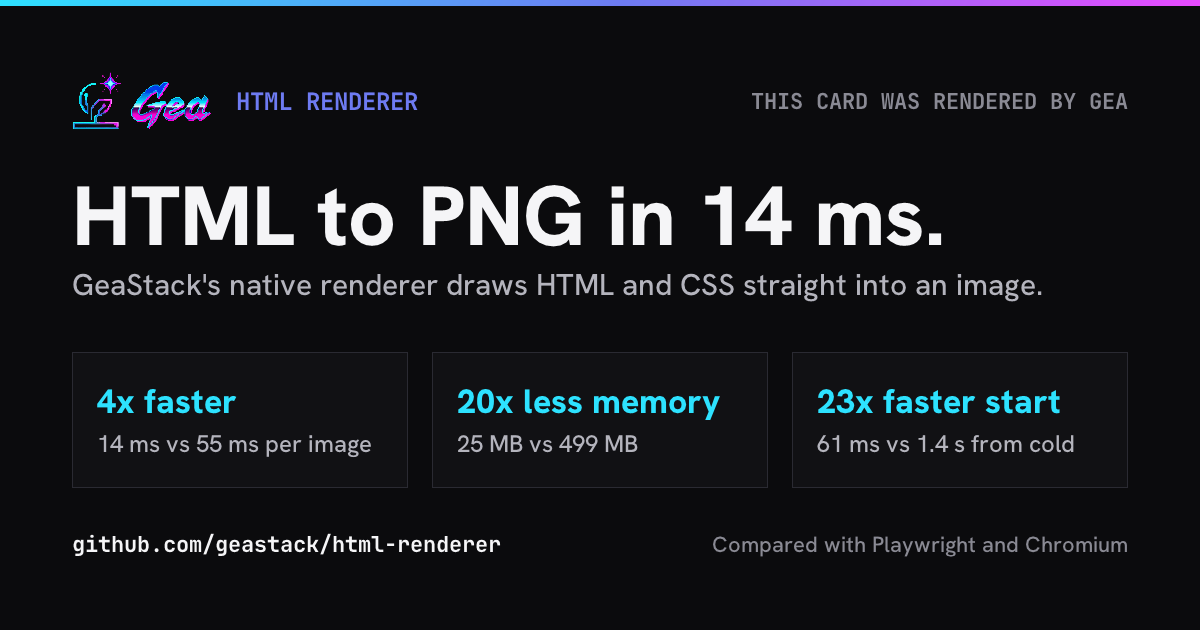
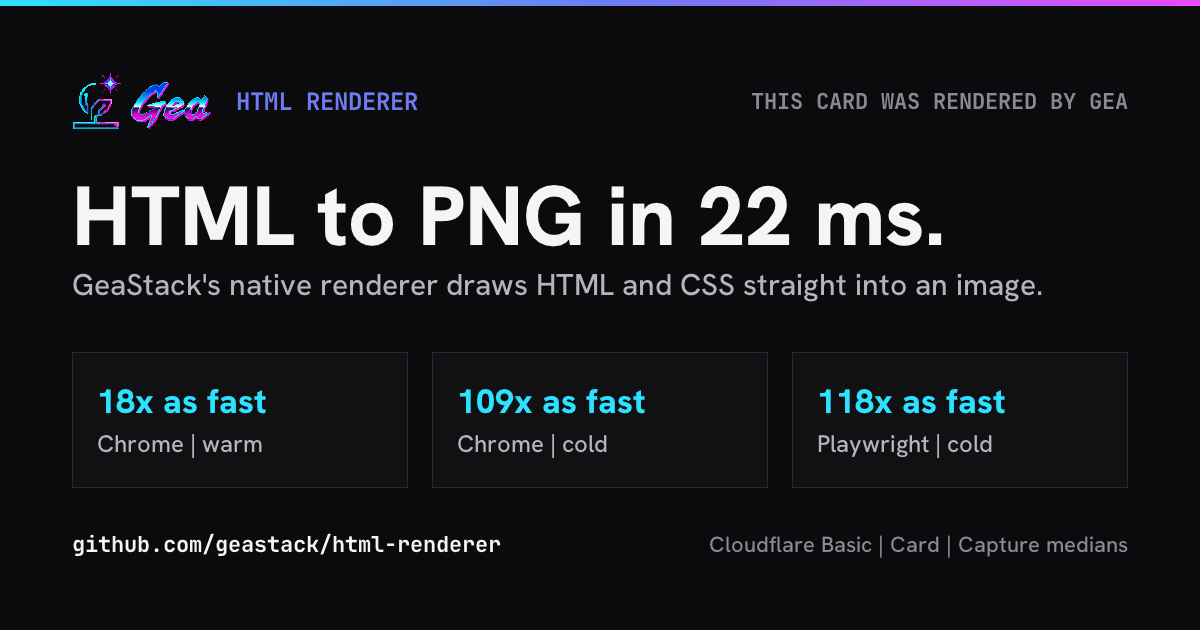
Add Cloudflare deployment button and comparable memory metrics
Let Workers Builds deploy the renderer from a source checkout, refresh the README card from the published Basic benchmark, and sample total cgroup memory alongside anonymous plus shared memory.

diff --git a/fixtures/promo/readme.html b/fixtures/promo/readme.html
@@ -1,0 +1,29 @@
+<!doctype html>
+<html>
+<head>
+  <title>Gea HTML Renderer</title>
+  <link rel="stylesheet" href="promo.css">
+</head>
+<body>
+  <div class="bar"></div>
+  <main class="card"
+    ><div class="top"
+      ><img class="logo" src="../shared/images/gea-logo.png" alt="Gea"
+      ><p class="eyebrow">HTML RENDERER</p
+      ><p class="proof">THIS CARD WAS RENDERED BY GEA</p
+    ></div
+    ><h1>HTML to PNG in 22 ms.</h1
+    ><p class="sub">GeaStack's native renderer draws HTML and CSS straight into an image.</p
+    ><div class="stats"
+      ><div class="stat"><p class="value">18x as fast</p><p class="label">Chrome | warm</p></div
+      ><div class="stat"><p class="value">109x as fast</p><p class="label">Chrome | cold</p></div
+      ><div class="stat"><p class="value">118x as fast</p><p class="label">Playwright | cold</p></div
+    ></div
+    ><div class="grow"></div
+    ><div class="footer"
+      ><p class="repo">github.com/geastack/html-renderer</p
+      ><p class="note">Cloudflare Basic | Card | Capture medians</p
+    ></div
+  ></main>
+</body>
+</html>

diff --git a/deploy/cloudflare/src/native/server.ts b/deploy/cloudflare/src/native/server.ts
@@ -10,6 +10,7 @@ declare function startCaptureMetrics(): void
 declare function finishCaptureMetrics(): void
 declare function httpPrerenderMode(): boolean
 declare function captureMetrics(): string
+declare function captureTotalMemory(): string
 declare function openBundle(bytes: Uint8Array): string
 declare function beginFileBundle(): void
 declare function writeBundleFile(name: string, bytes: Uint8Array): void
@@ -149,6 +150,7 @@ function serve(): void {
     }
 
     response.setHeader('x-gea-capture', captureMetrics())
+    response.setHeader('x-gea-memory-current-peak', captureTotalMemory())
     response.setHeader('content-type', 'image/png')
     response.setHeader('content-length', String(png.length))
     response.setHeader('x-bench-container-ms', String(performance.now() - started))

diff --git a/deploy/cloudflare/src/native/metrics.h b/deploy/cloudflare/src/native/metrics.h
@@ -34,20 +34,34 @@ static std::int64_t anonymousMemory()
 }
 
 static std::string lastCaptureMetrics;
+static std::int64_t lastTotalMemoryPeak = -1;
 static bool firstCapture = true;
+
+static std::int64_t totalMemory()
+{
+	std::ifstream stream("/sys/fs/cgroup/memory.current");
+	std::int64_t value;
+	return stream >> value ? value : -1;
+}
 
 class CaptureMetrics {
 	const std::chrono::steady_clock::time_point start = std::chrono::steady_clock::now();
 	const std::int64_t cpuBefore = cgroupCounter("cpu.stat", "usage_usec");
 	const std::int64_t baseline = anonymousMemory();
 	std::int64_t peak = baseline;
+	std::int64_t totalPeak = totalMemory();
+	void sample()
+	{
+		peak = std::max(peak, anonymousMemory());
+		totalPeak = std::max(totalPeak, totalMemory());
+	}
 	std::mutex timerMutex;
 	std::condition_variable_any timer;
 	std::jthread sampler{[this](std::stop_token stop) {
 		std::unique_lock lock(timerMutex);
 		while (!stop.stop_requested()) {
 			timer.wait_for(lock, stop, std::chrono::milliseconds(5), [] { return false; });
-			if (!stop.stop_requested()) peak = std::max(peak, anonymousMemory());
+			if (!stop.stop_requested()) sample();
 		}
 	}};
 
@@ -58,7 +72,8 @@ public:
 		const auto cpuAfter = cgroupCounter("cpu.stat", "usage_usec");
 		sampler.request_stop();
 		sampler.join();
-		peak = std::max(peak, anonymousMemory());
+		sample();
+		lastTotalMemoryPeak = totalPeak;
 		const auto wall = std::chrono::duration_cast<std::chrono::microseconds>(end - start).count();
 		lastCaptureMetrics = std::to_string(wall) + "," +
 			std::to_string(cpuBefore < 0 ? -1 : cpuAfter - cpuBefore) + "," +
@@ -84,4 +99,9 @@ static void finishCaptureMetrics()
 static std::string captureMetrics()
 {
 	return lastCaptureMetrics;
+}
+
+static std::string captureTotalMemory()
+{
+	return std::to_string(lastTotalMemoryPeak);
 }

diff --git a/README.md b/README.md
@@ -3,14 +3,17 @@
 Render local HTML and CSS to PNG or MP4 with GeaStack's native renderer.
 The Node client keeps a native worker open for repeated PNG captures.
 
-![HTML to PNG in 14 ms](fixtures/promo/promo.png)
+![Gea captured Card in 22 ms on Cloudflare Basic](fixtures/promo/promo.png)
+
+See the [launch benchmark](https://geastack.com/blog-html-renderer) for the
+Cloudflare Basic capture measurements shown here.
 
 This card was generated by html-renderer from
-[`fixtures/promo/promo.html`](fixtures/promo/promo.html) and
+[`fixtures/promo/readme.html`](fixtures/promo/readme.html) and
 [`promo.css`](fixtures/promo/promo.css):
 
 ```sh
-npm run render -- fixtures/promo/promo.html --width 1200 --height 630 --out fixtures/promo/promo.png
+npm run render -- fixtures/promo/readme.html --width 1200 --height 630 --out fixtures/promo/promo.png
 ```
 
 ## Install and render
@@ -146,6 +149,12 @@ This gallery is also generated by html-renderer, with
 [`fixtures/shared/gallery.mjs`](fixtures/shared/gallery.mjs).
 
 ## Cloudflare deployment
+
+[![Deploy to Cloudflare](https://deploy.workers.cloudflare.com/button)](https://deploy.workers.cloudflare.com/?url=https://github.com/geastack/html-renderer)
+
+The button imports the repository and deploys it through Workers Builds. Enable
+Containers on your Cloudflare account and enter a strong, unique value for `RENDER_TOKEN`
+when prompted. You’ll use it as the bearer token for render requests.
 
 The [deployment guide](deploy/cloudflare/README.md) explains the
 `npm run cloudflare:deploy` build and deploy workflow for macOS and Linux,

diff --git a/deploy/cloudflare/README.md b/deploy/cloudflare/README.md
@@ -7,7 +7,13 @@ TypeScript HTTP server and HTML renderer together. The final image uses
 
 ## Deploy
 
-Install Node.js 20.19 or later and start Docker on macOS or Linux.
+Use the [Deploy to Cloudflare button](https://deploy.workers.cloudflare.com/?url=https://github.com/geastack/html-renderer)
+to import the repository and deploy through Workers Builds. Enable Containers
+on your account and enter a strong, unique value for the Worker secret
+`RENDER_TOKEN` when prompted. You can also set it under the Worker’s
+**Settings → Variables and Secrets**.
+
+For a local deployment, install Node.js 20.19 or later and start Docker on macOS or Linux.
 Authenticate Wrangler to a Cloudflare account with Containers enabled and
 set `RENDER_TOKEN` in your shell. Run this from the HTML Renderer repository
 root:
@@ -18,8 +24,8 @@ npm run cloudflare:deploy
 
 Docker installs the npm build dependencies from the lockfile and targets
 Linux x86-64 on both Intel and Apple Silicon hosts. Wrangler then packages
-and deploys the runtime image. The lockfile includes Core 0.1.60,
-Linux 0.1.8, and node-compat 1.0.22. The build checks that the Card fixture
+and deploys the runtime image. The lockfile includes Core 0.1.62,
+Linux 0.1.9, and node-compat 1.0.22. The build checks that the Card fixture
 renders its uploaded font and that the executable serves health checks.
 
 Use `-- --dry-run` to validate locally. Use `-- --skip-build` to deploy

diff --git a/deploy/cloudflare/benchmark/README.md b/deploy/cloudflare/benchmark/README.md
@@ -98,6 +98,10 @@ including child processes. Memory is the container's anonymous and shared
 memory, excluding regular file cache. The sampler records the starting
 value and estimates the peak at 10 ms intervals.
 
+The HTTP benchmark also reports two cgroup v2 memory peaks sampled every 5 ms.
+`ramPeak` is `anon + shmem` from `memory.stat`. `ramTotalPeak` is
+`memory.current` and includes file cache and kernel memory. Both values are in MiB.
+
 ## Run the browser Lite compatibility check
 
 The Lite service uses the same 1920 × 1080 fixtures as the
